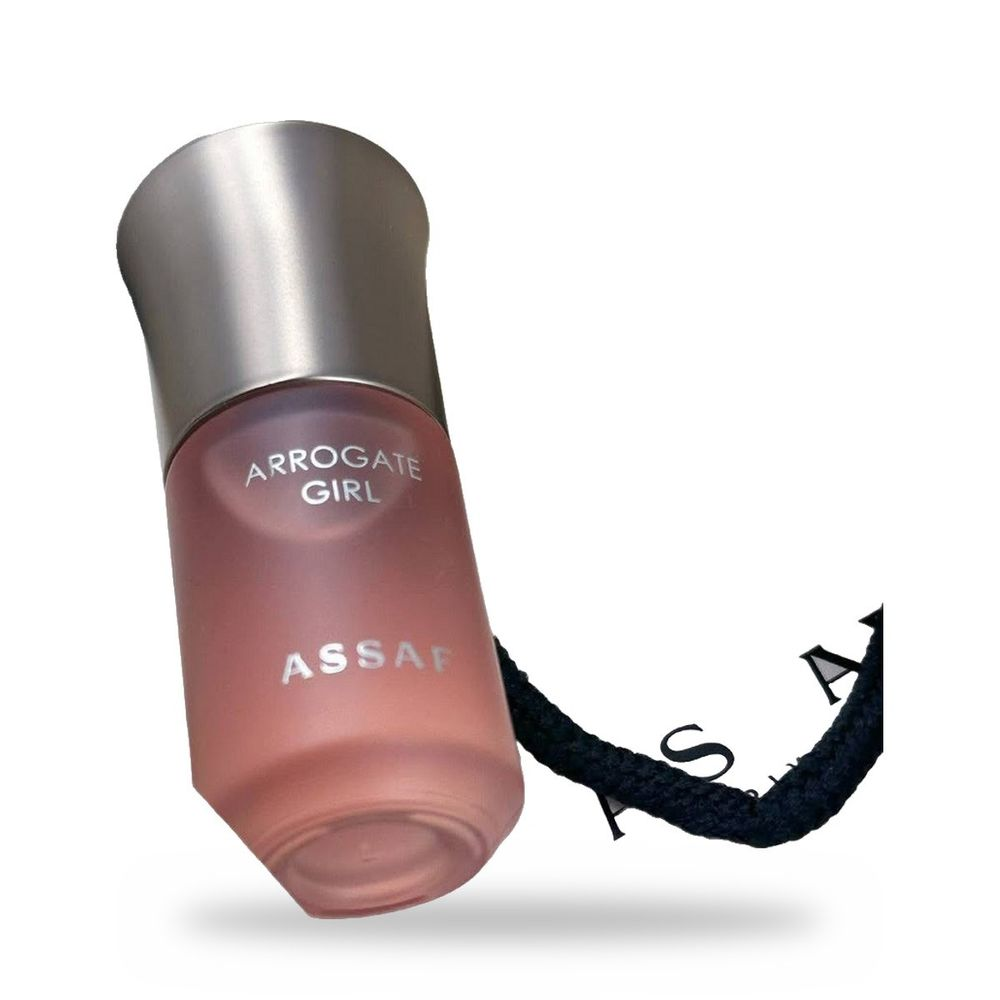
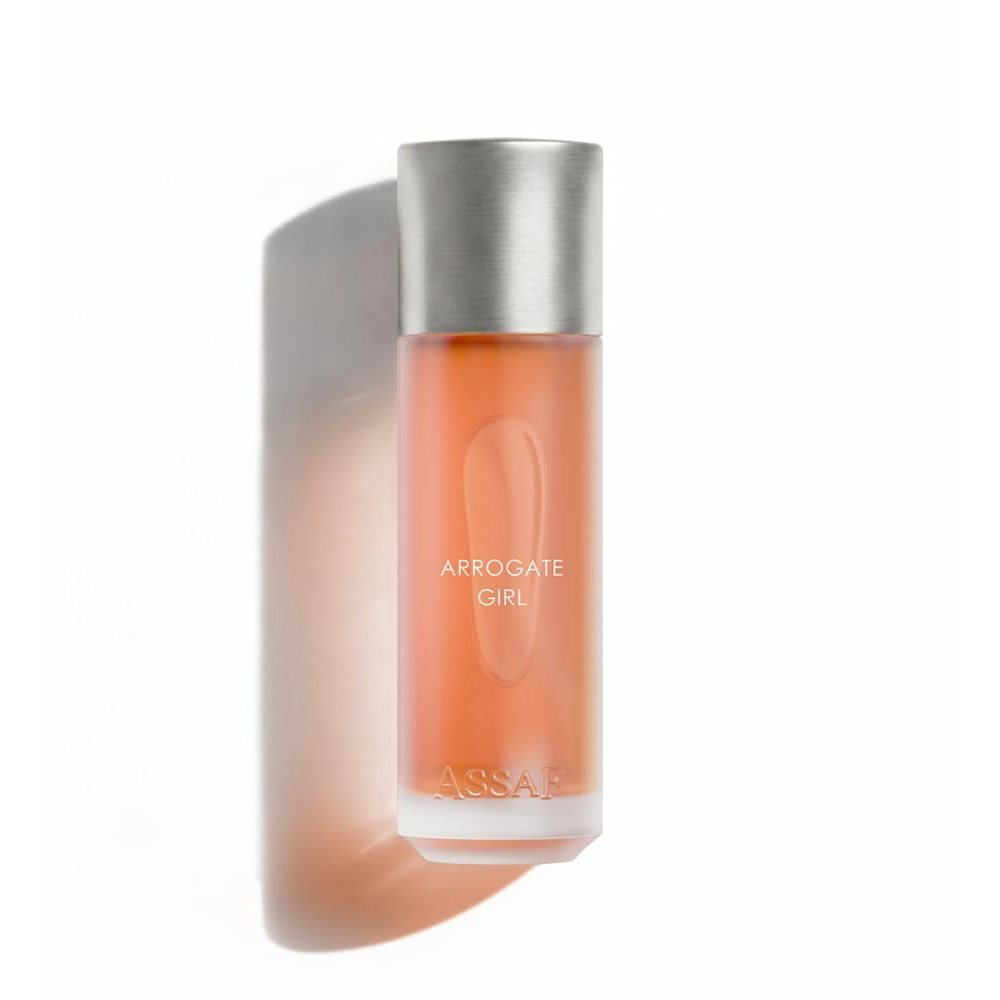
Add 52 products with studio photos and sharpen 4 existing ones
- 52 new products from the matched-photo list: 16 Assaf, 14 Laverne,
  10 Reef, 7 Dkhoon AlEmiratia and 5 Osma, each with a clean studio
  photo (1000px viewer, 480px grid, WebP + JPG).
- Sharper studio photos for Amber Royal (C07), Arrogate Girl (WA0119),
  Arrogate Hook Blue (WA0133) and Pink Queen (B08, whose old photo had
  price text printed on it).
- New brands Reef, Osma and Dkhoon AlEmiratia; Laverne and Reef get
  their own filters; Dikhoon Rose and Signature Gold moved to Dkhoon.
- Brands strip now lists the brands actually sold.
- Left out: watermarked (Signature Gold, Memory), low-resolution
  (Millionaire Enable, Swimming in Summer), uncertain (I Love KSA,
  AlUla set, second Dangerous Arrogate box) and the 10 guessed or 2
  not-found matches.

Claude-Session: https://claude.ai/code/session_01T8roHvMW5tCJMtHfCAKN5o

diff --git a/public/assets/js/data.js b/public/assets/js/data.js
@@ -12,8 +12,8 @@ const HERO_PHOTO = "B03";
 
 // Brands shown in the "Brands we love" strip (text only, no logos).
 const BRANDS = [
-  "Assaf", "Ibrahim Al Qurashi", "Arabian Oud", "Ajmal",
-  "Lattafa", "Rasasi", "Swiss Arabian", "Abdul Samad Al Qurashi"
+  "Ibrahim Al Qurashi", "Ibraq", "Assaf", "Laverne", "Reef",
+  "Lattafa", "Rasasi", "Osma", "Dkhoon AlEmiratia", "Thnyan"
 ];
 
 // Real customer reviews only. The reviews section stays hidden while this list is empty.
@@ -34,7 +34,10 @@ const GALLERY_BRANDS = {
   assaf: { en: "Assaf", ar: "عساف", group: "assaf" },
   lattafa: { en: "Lattafa", ar: "لطافة", group: "lattafa" },
   rasasi: { en: "Rasasi", ar: "الرصاصي", group: "rasasi" },
-  laverne: { en: "Laverne", ar: "لافيرن", group: "more" },
+  laverne: { en: "Laverne", ar: "لافيرن", group: "laverne" },
+  reef: { en: "Reef", ar: "ريف", group: "reef" },
+  osma: { en: "Osma", ar: "أوسما", group: "more" },
+  dkhoon: { en: "Dkhoon AlEmiratia", ar: "دخون الإماراتية", group: "more" },
   thnyan: { en: "Thnyan", ar: "ثنيان", group: "more" },
   vivarea: { en: "Vivarea", ar: "فيفاريا", group: "more" },
   other: { en: "", ar: "", group: "more" }
@@ -49,6 +52,8 @@ const GALLERY_FILTERS = [
   { id: "iaq", group: "iaq", en: "Ibrahim Al Qurashi & Ibraq", ar: "إبراهيم القرشي وإبراق" },
   { id: "assaf", group: "assaf", en: "Assaf", ar: "عساف" },
   { id: "lattafa", group: "lattafa", en: "Lattafa", ar: "لطافة" },
+  { id: "laverne", group: "laverne", en: "Laverne", ar: "لافيرن" },
+  { id: "reef", group: "reef", en: "Reef", ar: "ريف" },
   { id: "rasasi", group: "rasasi", en: "Rasasi", ar: "الرصاصي" },
   { id: "more", group: "more", en: "More brands", ar: "ماركات أخرى" }
 ];
@@ -147,7 +152,61 @@ const GALLERY = [
   g("B05", "vivarea", "perfume", "Step Pour Homme", "ستيب للرجال"),
   g("C12", "other", "perfume", "Zayed", "زايد"),
   g("C02", "other", "perfume", "Angham", "أنغام"),
-  g("D17", "other", "perfume", "Dikhoon Rose", "دخون روز"),
+  g("D17", "dkhoon", "perfume", "Dikhoon Rose", "دخون روز"),
   g("WA0122", "other", "perfume", "Al Wisam", "الوسام"),
-  g("WA0124", "other", "perfume", "Signature Gold", "سيغنتشر غولد")
+  g("WA0124", "dkhoon", "perfume", "Signature Gold", "سيغنتشر غولد"),
+
+  // Studio photos from the brands' own stores (and a few retailers), matched to your boxes
+  g("AS01", "assaf", "set", "Pegasus Collection", "مجموعة بيغاسوس"),
+  g("AS02", "assaf", "perfume", "Aura Black", "أورا بلاك"),
+  g("AS03", "assaf", "perfume", "Frankel Black Out", "فرانكل بلاك أوت"),
+  g("AS04", "assaf", "perfume", "Frankel Blue Elixir", "فرانكل بلو إليكسير"),
+  g("AS05", "assaf", "perfume", "Frankel Battle", "فرانكل باتل"),
+  g("AS06", "assaf", "perfume", "Addict Blue", "أديكت بلو"),
+  g("AS07", "assaf", "perfume", "Wild Pegasus", "وايلد بيغاسوس"),
+  g("AS08", "assaf", "perfume", "No Comment", "نو كومنت"),
+  g("AS09", "assaf", "perfume", "Gris Erik", "غريس إريك"),
+  g("AS10", "assaf", "perfume", "Dangerous Arrogate", "دينجرس أروغيت"),
+  g("AS11", "assaf", "perfume", "Arrogate Comete", "أروغيت كوميت"),
+  g("AS12", "assaf", "perfume", "Arrogate Pink Diva", "أروغيت بينك ديفا"),
+  g("AS13", "assaf", "perfume", "Boom Blue", "بوم بلو"),
+  g("AS14", "assaf", "perfume", "Baby Girl", "بيبي جيرل"),
+  g("AS15", "assaf", "perfume", "Feeling", "فيلينغ"),
+  g("AS16", "assaf", "perfume", "Rose", "روز"),
+  g("LV01", "laverne", "perfume", "Champion", "تشامبيون"),
+  g("LV02", "laverne", "perfume", "Tyrant", "تايرنت"),
+  g("LV03", "laverne", "perfume", "Last Chance", "لاست تشانس"),
+  g("LV04", "laverne", "perfume", "Into the Sea", "إنتو ذا سي"),
+  g("LV05", "laverne", "perfume", "Fearless", "فيرليس"),
+  g("LV06", "laverne", "perfume", "La'Dor Bakhur", "لادور بخور"),
+  g("LV07", "laverne", "perfume", "La'Dor Bakhur Valley", "لادور بخور فالي"),
+  g("LV08", "laverne", "perfume", "La'Dor Santorini", "لادور سانتوريني"),
+  g("LV09", "laverne", "perfume", "Atlantis Homme", "أتلانتس أوم"),
+  g("LV10", "laverne", "perfume", "Bella", "بيلا"),
+  g("LV11", "laverne", "perfume", "Lady Rose Bloom 200 ml", "ليدي روز بلوم ٢٠٠ مل"),
+  g("LV12", "laverne", "perfume", "Lady Rose Bloom 100 ml", "ليدي روز بلوم ١٠٠ مل"),
+  g("LV13", "laverne", "perfume", "Orchid Valley", "أوركيد فالي"),
+  g("LV14", "laverne", "perfume", "Queen Rose", "كوين روز"),
+  g("RF01", "reef", "set", "Princess Reef", "برنسيس ريف"),
+  g("RF02", "reef", "perfume", "Pesca", "بيسكا"),
+  g("RF03", "reef", "perfume", "Reef 11", "ريف 11"),
+  g("RF04", "reef", "perfume", "Reef 42", "ريف 42"),
+  g("RF05", "reef", "perfume", "Diriyah", "الدرعية"),
+  g("RF06", "reef", "perfume", "Summer Yellow", "سمر الأصفر"),
+  g("RF07", "reef", "perfume", "Bluest", "بلوست"),
+  g("RF08", "reef", "perfume", "Reef 10", "ريف 10"),
+  g("RF09", "reef", "perfume", "Reef 19", "ريف 19"),
+  g("RF10", "reef", "perfume", "Reef 31", "ريف 31"),
+  g("DK01", "dkhoon", "set", "Special Edition Collection", "مجموعة الإصدار الخاص"),
+  g("DK02", "dkhoon", "perfume", "Musk Toffee", "مسك توفي"),
+  g("DK03", "dkhoon", "perfume", "Crown Black", "كراون بلاك"),
+  g("DK04", "dkhoon", "perfume", "No One", "نو ون"),
+  g("DK05", "dkhoon", "perfume", "Gold Tears", "قولد تيرز"),
+  g("DK06", "dkhoon", "perfume", "Kahilan", "كحيلان"),
+  g("DK07", "dkhoon", "perfume", "Dkhoon Desert", "دخون ديزرت"),
+  g("OS01", "osma", "perfume", "Rouge", "روج"),
+  g("OS02", "osma", "perfume", "Noir", "نوار"),
+  g("OS03", "osma", "perfume", "Bonsoir", "بونسوار"),
+  g("OS04", "osma", "perfume", "Positano", "بوزيتانو"),
+  g("OS05", "osma", "perfume", "Bonjour", "بونجور")
 ];

diff --git a/README.md b/README.md
@@ -48,6 +48,8 @@ The product photos are in `public/assets/img/collection/` (1000 px, used in the 
 g("E01", "assaf", "perfume", "Arrogate Pink", "أروغيت بينك"),
 ```
 
+Products with codes like `AS01` (Assaf), `LV01` (Laverne), `RF01` (Reef), `DK01` (Dkhoon AlEmiratia) and `OS01` (Osma) use studio photos taken from the brands' own online stores (3saf.com, assaf.ae, laverne.com / laverne.co, reefperfumes.com, dkhoonemirates.com, osmaperfumes.com), or from a retailer where the brand store no longer lists the product (Noon, BrandVIP, Justmylook, Salam Occasions, Xmart, My Royal Musk, Soghaat, eBay). These photos belong to the brands or those shops: as a seller of the genuine products you can usually ask the brand for its official media kit, and replacing retailer photos with the brand's own or your own is the safest choice.
+
 The type is `perfume`, `musk` or `set`. Leave the name out if you do not know it, and the brand is shown instead. The photos used on the category tiles are set in `GALLERY_TILES`.
 
 The product in the arch at the top of the page is set by `HERO_PHOTO` in `public/assets/js/data.js` (now `B03`, Purple Heart Diamond). If a photo is missing, the site shows a drawn bottle instead of a broken image.
